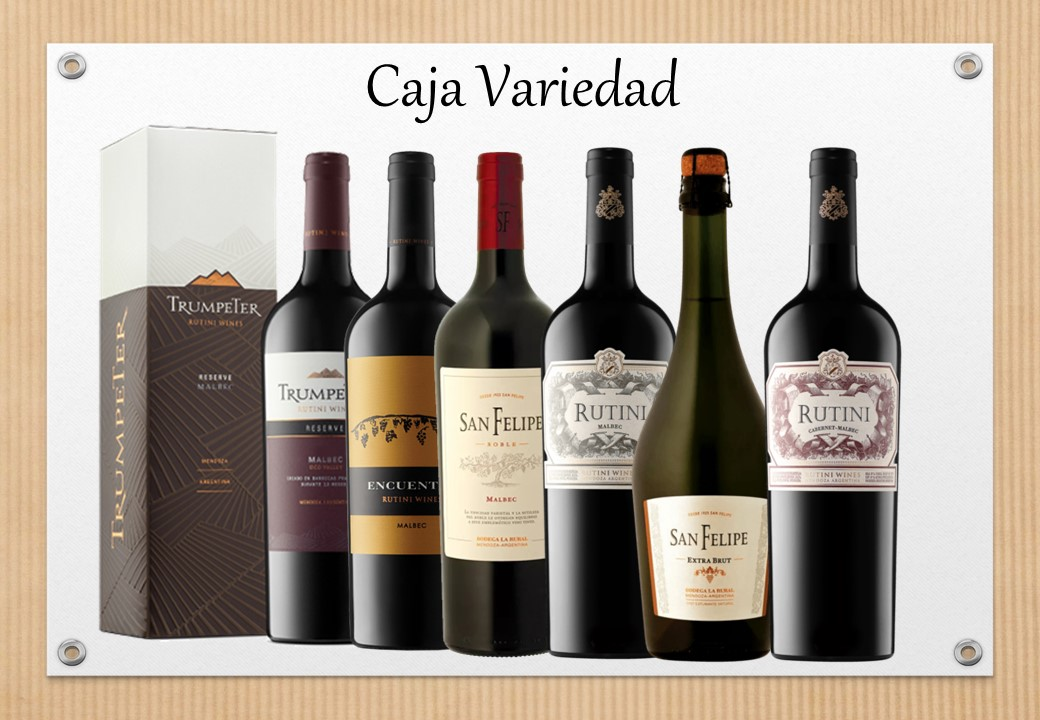
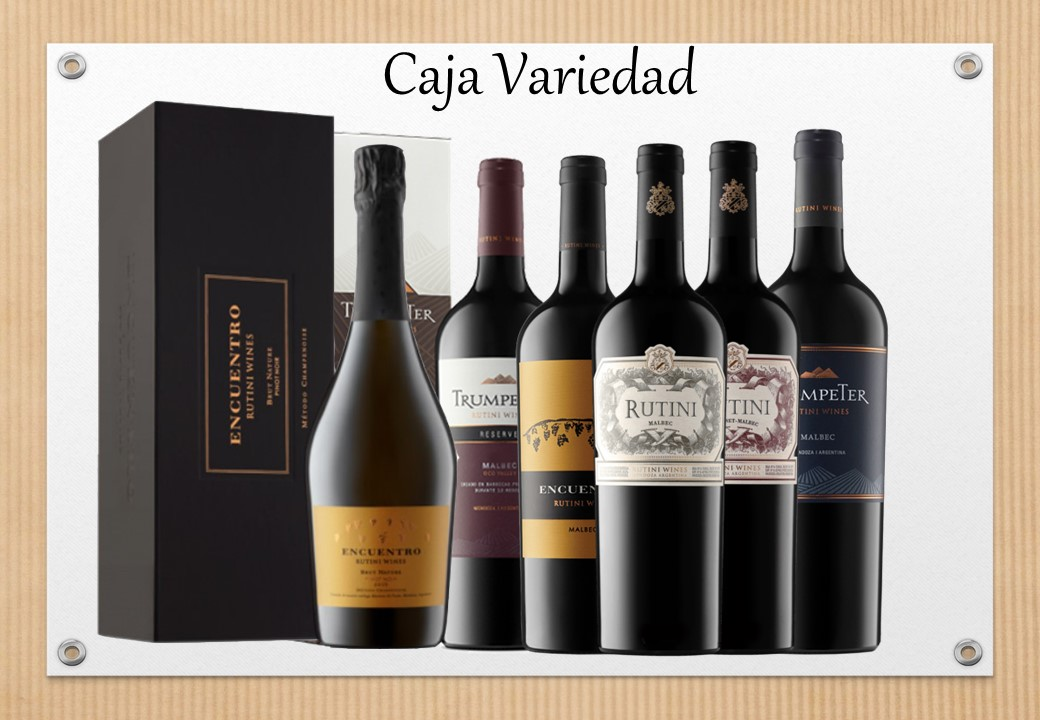
Se cambió la descripción y la foto de cajavariedad.html. Se hicieron arreglos de typeo en algunos combos

diff --git a/productos/promociones/cajavariedad.html b/productos/promociones/cajavariedad.html
@@ -55,9 +55,9 @@
         </div>
         <div>
             <p class="desc">
-                Lorem ipsum dolor sit amet consectetur adipisicing elit. Libero praesentium exercitationem perspiciatis ab molestias obcaecati quidem vel blanditiis animi iusto enim voluptate nostrum ipsam omnis quam atque tempora, ad saepe.
-                Lorem, ipsum dolor sit amet consectetur adipisicing elit. Maxime nesciunt deleniti consequatur numquam consectetur at dicta consequuntur minima eaque nisi explicabo iure non eos alias omnis molestias quidem, nam sit.
-                Lorem ipsum dolor sit amet, consectetur adipisicing elit. Ex esse placeat ipsam optio laboriosam ea cumque, eos praesentium repellendus aliquam eaque et aperiam id explicabo, corporis animi incidunt impedit at.
+                La caja trae un Espumante Pinot Noir Brut Nature en Estuche, un Vino Trumpeter Reserve Blend en Estuche, un Vino Rutini Malbec, un Vino Rutini Cabernet Sauvignon-Malbec, un Vino Encuentro y un Vino Trumpeter Malbec. En la variedad está el gusto.<br>
+                Contenido: 750 ml. x6<br>
+                Precio: ARS 7500
             </p>
             <h3 class="titular" id="titucontacto">Pedilo mandando un mensaje a través de:</h3>
             <div class="mcontacto">

diff --git a/productos/promociones/cenaybrindis3.html b/productos/promociones/cenaybrindis3.html
@@ -55,7 +55,7 @@
         </div>
         <div>
             <p class="desc">
-                El combo trae un vino Rutini Malbec y un Espumante Encuentro Brut Nature Pinot Noir en Estuche, perfectos para acompañar con excelencia y elegancia una cena y brindar por los buenos momentos.<br>
+                El combo trae un Vino Rutini Malbec y un Espumante Encuentro Brut Nature Pinot Noir en Estuche, perfectos para acompañar con excelencia y elegancia una cena y brindar por los buenos momentos.<br>
                 Contenido: 750 ml. x2<br>
                 Precio: ARS 5000
             </p>

diff --git a/productos/promociones/cajafamilia.html b/productos/promociones/cajafamilia.html
@@ -55,7 +55,7 @@
         </div>
         <div>
             <p class="desc">
-                La caja trae tres Vinos Rutini Malbec y utres Vinos Rutini Malbec-Cabernet Sauvignon. Si el Combo Amigos era excelente para compartir con amigos, este es aún mejor para disfrutar en familia<br>
+                La caja trae tres Vinos Rutini Malbec y tres Vinos Rutini Cabernet Sauvignon-Malbec. Si el Combo Amigos era excelente para compartir con amigos, este es aún mejor para disfrutar en familia<br>
                 Contenido: 750 ml. x6<br>
                 Precio: ARS 9900
             </p>

diff --git a/productos/promociones/cenaybrindis1.html b/productos/promociones/cenaybrindis1.html
@@ -55,7 +55,7 @@
         </div>
         <div>
             <p class="desc">
-                El combo trae un vino San Felipe Malbec Roble y un Espumante San Felipe Extra Brut, perfectos para acompañar una cena y brindar por los buenos momentos.<br>
+                El combo trae un Vino San Felipe Malbec Roble y un Espumante San Felipe Extra Brut, perfectos para acompañar una cena y brindar por los buenos momentos.<br>
                 Contenido: 750 ml. x2<br>
                 Precio: ARS 950
             </p>

diff --git a/productos/promociones/cenaybrindis2.html b/productos/promociones/cenaybrindis2.html
@@ -55,7 +55,7 @@
         </div>
         <div>
             <p class="desc">
-                El combo trae un vino Trumpeter Malbec y un Espumante Trumpeter Rosé de Malbec, perfectos para acompañar una cena y brindar por los buenos momentos.<br>
+                El combo trae un Vino Trumpeter Malbec y un Espumante Trumpeter Rosé de Malbec, perfectos para acompañar una cena y brindar por los buenos momentos.<br>
                 Contenido: 750 ml. x2<br>
                 Precio: ARS 1800
             </p>

diff --git a/productos/promociones/comboamigos.html b/productos/promociones/comboamigos.html
@@ -55,7 +55,7 @@
         </div>
         <div>
             <p class="desc">
-                El combo trae un Vino Rutini Malbec y un Vino Rutini Malbec-Cabernet Sauvignon, excelentes para acompñar una cena con amigos.<br>
+                El combo trae un Vino Rutini Malbec y un Vino Rutini Cabernet Sauvignon-Malbec, excelentes para acompñar una cena con amigos.<br>
                 Contenido: 750 ml. x2<br>
                 Precio: ARS 3500
             </p>
